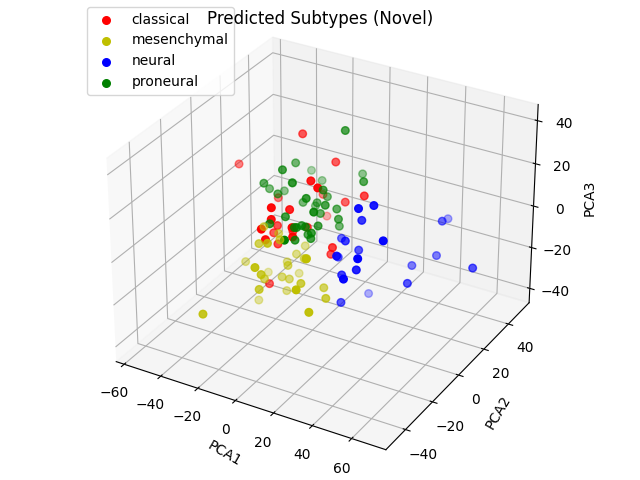
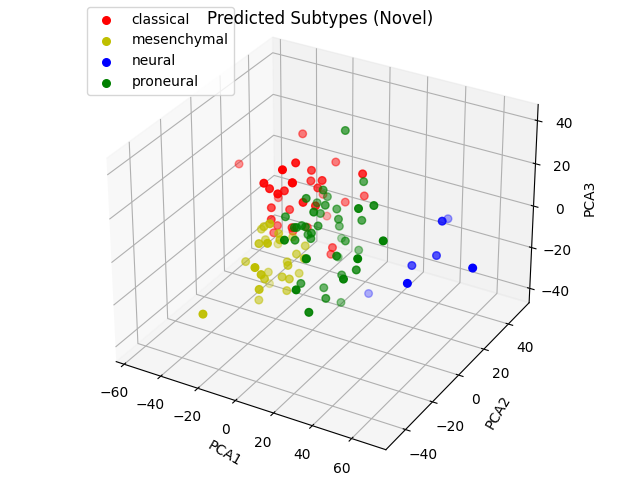
survival analysis done

diff --git a/survivalanalysis.py b/survivalanalysis.py
@@ -1,25 +1,89 @@
-def getSamples(df, val, survivaldict):
-	if val == 0:
-		col = 'subtypes'
-	elif val == 1:
-		col = 'novel'
-	else:
-		col = 'sklearn'
-	clist = df.loc[df[col] == 0, 'samples']
-	mlist = df.loc[df[col] == 1, 'samples']
-	nlist = df.loc[df[col] == 2, 'samples']
-	plist = df.loc[df[col] == 3, 'samples']
-	cvals = [float(survivaldict[i]) for i in clist if (float(survivaldict[i]) > 0)]
-	mvals = [float(survivaldict[i]) for i in mlist if (float(survivaldict[i]) > 0)]
-	nvals = [float(survivaldict[i]) for i in nlist if (float(survivaldict[i]) > 0)]
-	pvals = [float(survivaldict[i]) for i in plist if (float(survivaldict[i]) > 0)]
-	cmean = mean(cvals)
-	mmean = mean(mvals)
-	nmean = mean(nvals)
-	pmean = mean(pvals)
-	cstd = stdev(cvals)
-	mstd = stdev(mvals)
-	nstd = stdev(nvals)
-	pstd = stdev(pvals)
+import pandas as pd
+from statistics import mean, stdev
 
-	return cmean, mmean, nmean, pmean, cstd, mstd, nstd, pstd
+def getStats(df, survivaldict):
+	col = 'subtypes'
+	list1 = df.loc[df[col] == 0, 'samples']
+	list2 = df.loc[df[col] == 1, 'samples']
+	list3 = df.loc[df[col] == 2, 'samples']
+	list4 = df.loc[df[col] == 3, 'samples']
+	list5 = df.loc[df[col] == 4, 'samples']
+	vals1 = [float(survivaldict[i]) for i in list1 if (float(survivaldict[i]) > 0)]
+	vals2 = [float(survivaldict[i]) for i in list2 if (float(survivaldict[i]) > 0)]
+	vals3 = [float(survivaldict[i]) for i in list3 if (float(survivaldict[i]) > 0)]
+	vals4 = [float(survivaldict[i]) for i in list4 if (float(survivaldict[i]) > 0)]
+	vals5 = [float(survivaldict[i]) for i in list5 if (float(survivaldict[i]) > 0)]
+	if vals1:
+		mean1 = mean(vals1)
+		std1 = stdev(vals1)
+	else:
+		mean1 = 'NA'
+		std1 = ''
+	
+	if vals2:
+		mean2 = mean(vals2)
+		std2 = stdev(vals2)
+	else:
+		mean2 = 'NA'
+		std2 = ''
+
+	if vals3:
+		mean3 = mean(vals3)
+		std3 = stdev(vals3)
+	else:
+		mean3 = 'NA'
+		std3 = ''
+	if vals4:
+		mean4 = mean(vals4)
+		std4 = stdev(vals4)
+	else:
+		mean4 = 'NA'
+		std4 = ''
+	if vals5:
+		mean5 = mean(vals5)
+		std5 = stdev(vals5)
+	else:
+		mean5 = 'NA'
+		std5 = ''
+	print('Survival (months): ')
+	print('Yellow: ', mean1, "+/-", std1)
+	print('Blue: ', mean2, "+/-", std2)
+	print('Green: ', mean3, "+/-", std3)
+	print('Cyan: ', mean4, "+/-", std4)
+	print('Red: ', mean5, "+/-", std5)
+
+def getsubtypes():
+	df = pd.read_csv('novel_results.csv')
+	del df['Unnamed: 0']
+	return df
+
+def getmeta():
+	f = open('GSE7696_series_matrix.txt')
+	lines = f.readlines()
+	i=0
+	for line in lines:
+		if "!Sample_geo_accession" in line:
+			samples = line.split()
+			samples.remove('!Sample_geo_accession')
+			samples = [str(i).replace('"', '') for i in samples]
+		if '!Sample_characteristics_ch1' in line:
+			if 'survival time in months' in line:
+				pre = line.split('\t')
+				pre.remove('!Sample_characteristics_ch1')
+				surv = [str(i).replace('survival time in months: ', '') for i in pre]
+				surv = [str(i).replace('NA', '-100') for i in surv]
+				surv = [str(i).replace('"', '') for i in surv]
+				surv = [str(i).replace('\n', '') for i in surv]
+	f.close()
+
+	survivaldict = {samples[i]: surv[i] for i in range(len(samples))}
+	return survivaldict
+
+
+def main():
+	df = getsubtypes()
+	survivaldict = getmeta()
+	getStats(df, survivaldict)
+
+if __name__ == "__main__":
+	main()

diff --git a/kmeanscluster.py b/kmeanscluster.py
@@ -174,7 +174,7 @@ class KMeans:
                 break
 
     def plotting(self, data):
-        colors = 10 * ["r", "y", "b", "g"]
+        colors = 10 * ["r", "y", "b", "g", "c"]
         fig = plot.figure()
         ax = Axes3D(fig)
 
@@ -184,8 +184,8 @@ class KMeans:
             color = colors[data]
             for features in self.clusters[data]:
                 ax.scatter(features[1], features[2], features[3], color = color, s = 30)
-
-        '''2D PLOTTING
+        '''
+        2D PLOTTING
         for centroid in self.centroids:
             plot.scatter(self.centroids[centroid][0], self.centroids[centroid][1], s = 130, marker = "x")
 
@@ -195,10 +195,29 @@ class KMeans:
                 plot.scatter(features[1], features[2], color = color, s = 30)
                 '''
                 
-        # plot.show()
+        plot.show()
 
         #function to determine best number of K means --> via k means from 1 to kmax
         #elbow method using WWS, within-cluster-sum of squaured errors
+
+    def saveresults(self):
+        cluster1 = [i[0] for i in self.clusters[1]]
+        cluster2 = [i[0] for i in self.clusters[2]]
+        cluster3 = [i[0] for i in self.clusters[3]]
+        cluster4 = [i[0] for i in self.clusters[4]]
+        cluster5 = [i[0] for i in self.clusters[5]]
+
+        clusters = {i : 0 for i in cluster1}
+        for i in cluster2:
+            clusters[i] = 1
+        for i in cluster3:
+            clusters[i] = 2
+        for i in cluster4:
+            clusters[i] = 3
+        for i in cluster5:
+            clusters[i] = 4
+        df = pd.DataFrame(clusters.items(), columns = ['samples','subtypes'])
+        df.to_csv('novel_results.csv')
 
 def WSS(kmax, DF, NP):
     sse = []
@@ -220,22 +239,25 @@ def WSS(kmax, DF, NP):
 
     plot.clf()
     plot.plot(range(1, kmax + 1), sse, 'bx-')
-    plot.savefig('elbow.png')
+    plot.show()
+    # plot.savefig('elbow.png')
     return sse
 
-
-
-def main(validation):
-    if validation:
+def main(*args):
+    if args:
         file = 'validationPCA90.csv'
+        DF, NP = importData(file)
+        test = KMeans(4, 0.00001, 100)
+        test.cluster(DF, NP)
+        return test.clusters
     else:
-        file = 'PCA90.csv'
-    DF, NP = importData(file)
-    WSS(7, DF, NP)
-    test = KMeans(4, 0.00001, 100)
-    test.cluster(DF, NP)
-    # test.plotting(NP)
-    return test.clusters
+        file = 'PCA50.csv'
+        DF, NP = importData(file)
+        WSS(7, DF, NP)
+        test = KMeans(5, 0.00001, 100)
+        test.cluster(DF, NP)
+        test.plotting(NP)
+        test.saveresults()
 
-# if __name__ == "__main__":
-#     main()
+if __name__ == "__main__":
+    main()

diff --git a/data.py b/data.py
@@ -10,13 +10,13 @@ class PCA:
         self.PCA75 = None
         self.PCA90 = None
 
-    def datareduction(self, validation):
-        if not validation:
-            file = 'GSE7696_series_matrix.txt'
-            skip = 93
-        if validation:
+    def datareduction(self, *args):
+        if args:
             file = 'validation_GSE72951_series_matrix.txt'
             skip = 83
+        else:
+            file = 'GSE7696_series_matrix.txt'
+            skip = 93
         df = pd.read_csv(file, delimiter='\t', skiprows=skip)
         df.drop(df.tail(1).index, inplace=True)
         df = df.set_index(['ID_REF'])
@@ -60,7 +60,7 @@ class PCA:
         # Feature Filtering : Removing features with less than x variance
         from sklearn.feature_selection import VarianceThreshold
 
-        if validation:
+        if args:
             selector_50 = VarianceThreshold(0.3241)  # Threshold that keeps 50%, 75%, 90% for LABELED data
             selector_75 = VarianceThreshold(0.6935)
             # selector_90 = VarianceThreshold(0.9618) 85%

diff --git a/validationrun.py b/validationrun.py
@@ -203,6 +203,10 @@ def main():
 		df = fromclusters(df, algoclusters, skclusters)
 		for i in range(0, 2):
 			df, loop = match(df, i, loop)
+	# print(sum(value == 'Classical' for value in subtypedict.values()))
+	# print(sum(value == 'Mesenchymal' for value in subtypedict.values()))
+	# print(sum(value == 'Proneural' for value in subtypedict.values()))
+	# print(sum(value == 'Neural' for value in subtypedict.values()))
 	coords = getcoords()
 	graphs(df, coords)
 	analysis(df)
